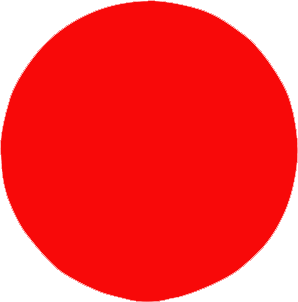
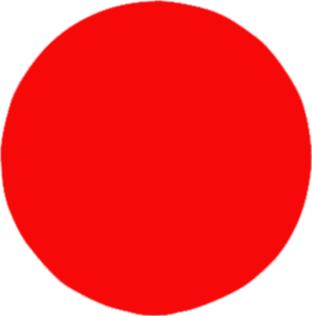
Fix image

diff --git a/app/Http/Controllers/ImageController.php b/app/Http/Controllers/ImageController.php
@@ -28,16 +28,16 @@ class ImageController extends Controller
 
 	public function store2(Request $request)
 	{
-		$canva = $img = Image::canvas(442, 473);
+		$canva = $img = Image::canvas(442, 473); //'#4318EE'
 		$marco = Image::make(public_path() . '/Krito/img/asd/marco.png');
 		$mask  = Image::make(public_path() . '/Krito/img/asd/mask2.png');
 		// $img   = Image::make(public_path() . '/Krito/img/logo.png');
 		$img   = Image::make($request->file('image'));
 		
-		$img->fit(298, 302);
+		$img->fit(312, 316);
 		$img->mask($mask, true);
 
-		$canva->insert($img, 'center', 0, 80);
+		$canva->insert($img, 'top-left', 67, 114);
 		$canva->insert($marco, 'center');
 
 		return $canva->response('png');
